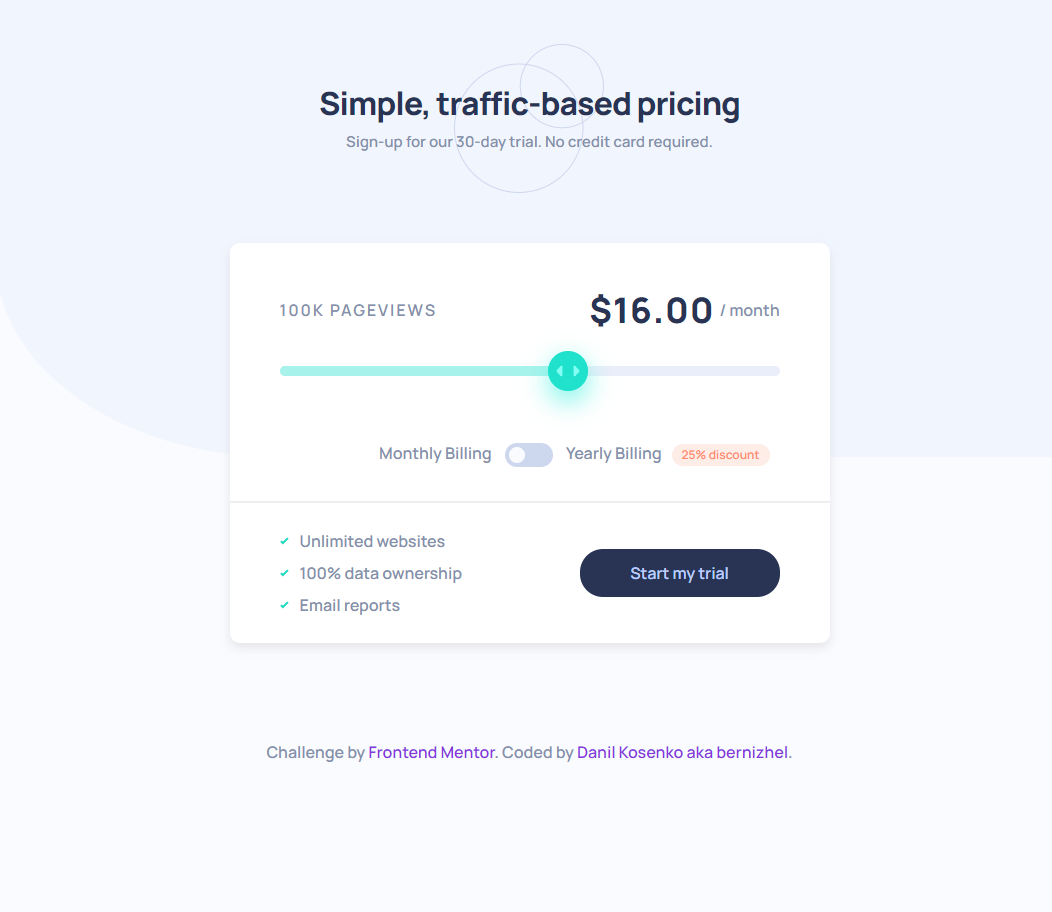
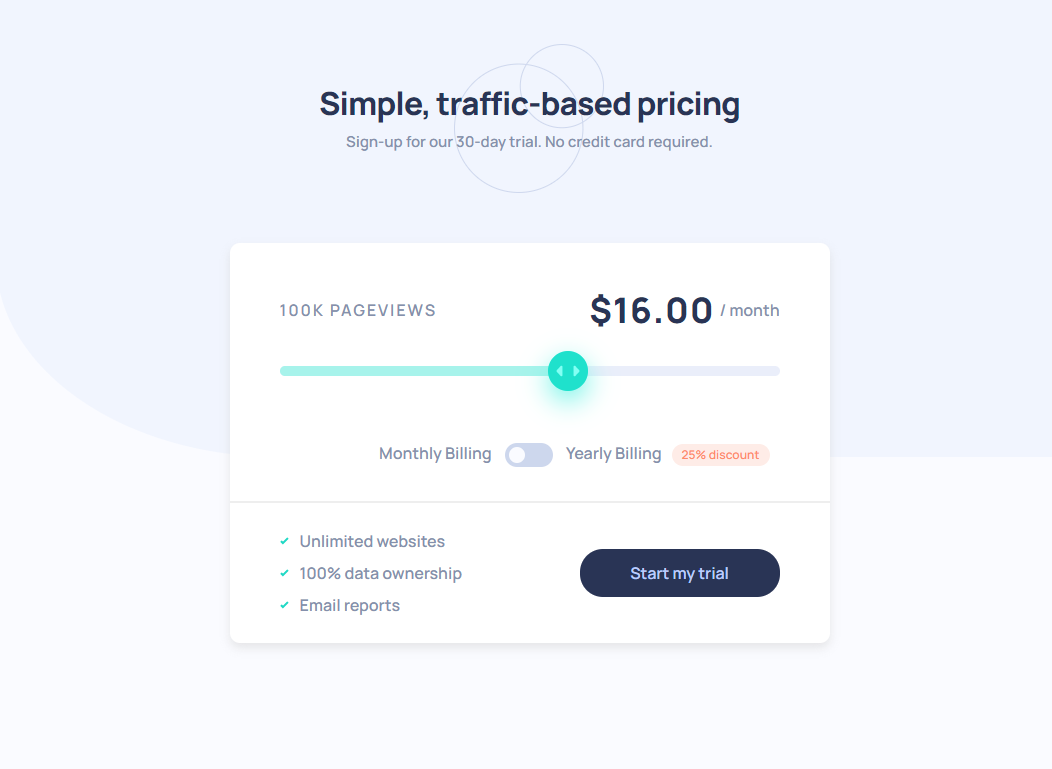
Removed attribution line

diff --git a/src/styles/main.scss b/src/styles/main.scss
@@ -61,9 +61,6 @@ body {
     border-bottom: 2px $component-divider-color solid;
     height: 100%;
   }
-  &__confirmation {
-    height: 100%;
-  }
 }
 
 // PRICING
@@ -237,20 +234,6 @@ body {
     bottom: 2px;
   }
 }
-
-
-// ATTRIBUTION
-.attribution {
-  // margin doesn't work at bottom
-  margin-top: 100px;
-  padding-bottom: 50px;
-  a {
-    text-decoration: none;
-    cursor: pointer;
-    color: blueviolet;
-  }
-}
-
 
 // importing media queries
 @import '@s/media';

diff --git a/src/index.html b/src/index.html
@@ -50,12 +50,6 @@
 
             </main>
 
-            <div class="attribution">
-                Challenge by <a href="https://www.frontendmentor.io?ref=challenge" target="_blank">Frontend Mentor</a>.
-                Coded by <a href="https://github.com/bernizhel" target="_blank">Danil Kosenko aka
-                <span class="attribution__nickname">bernizhel</span></a>.
-            </div>
-
         </div>
 
     </body>
